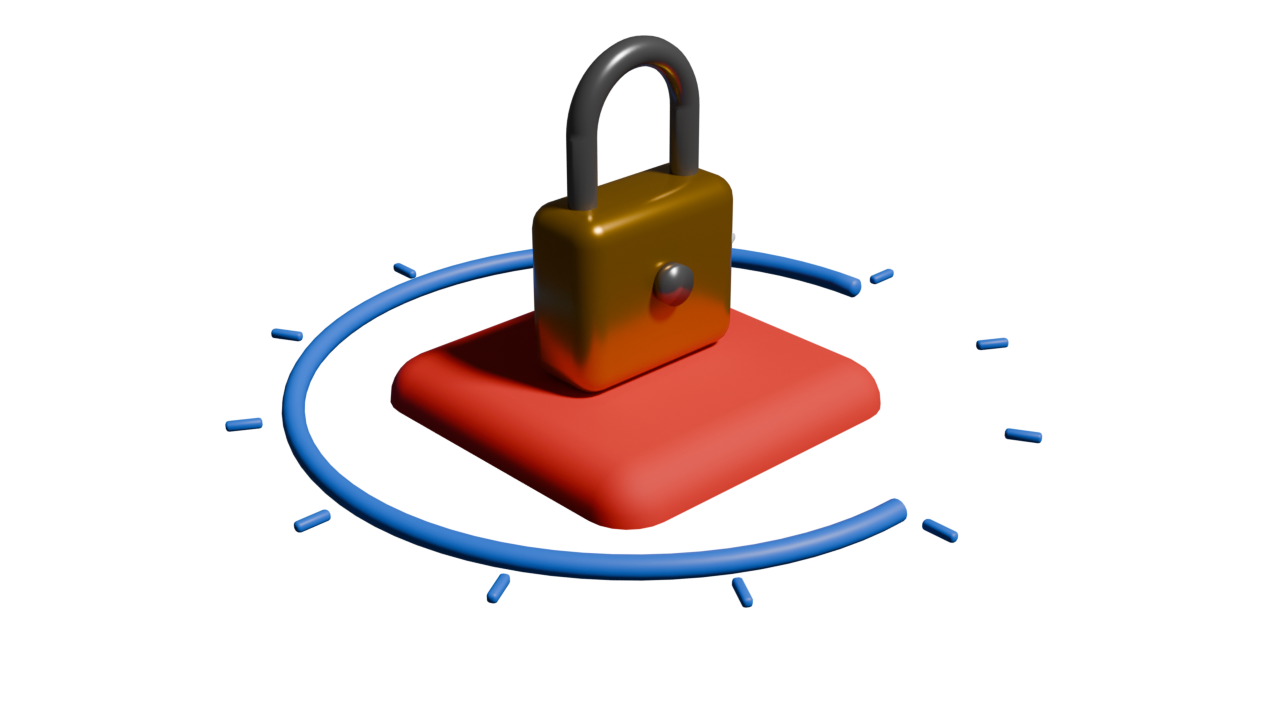
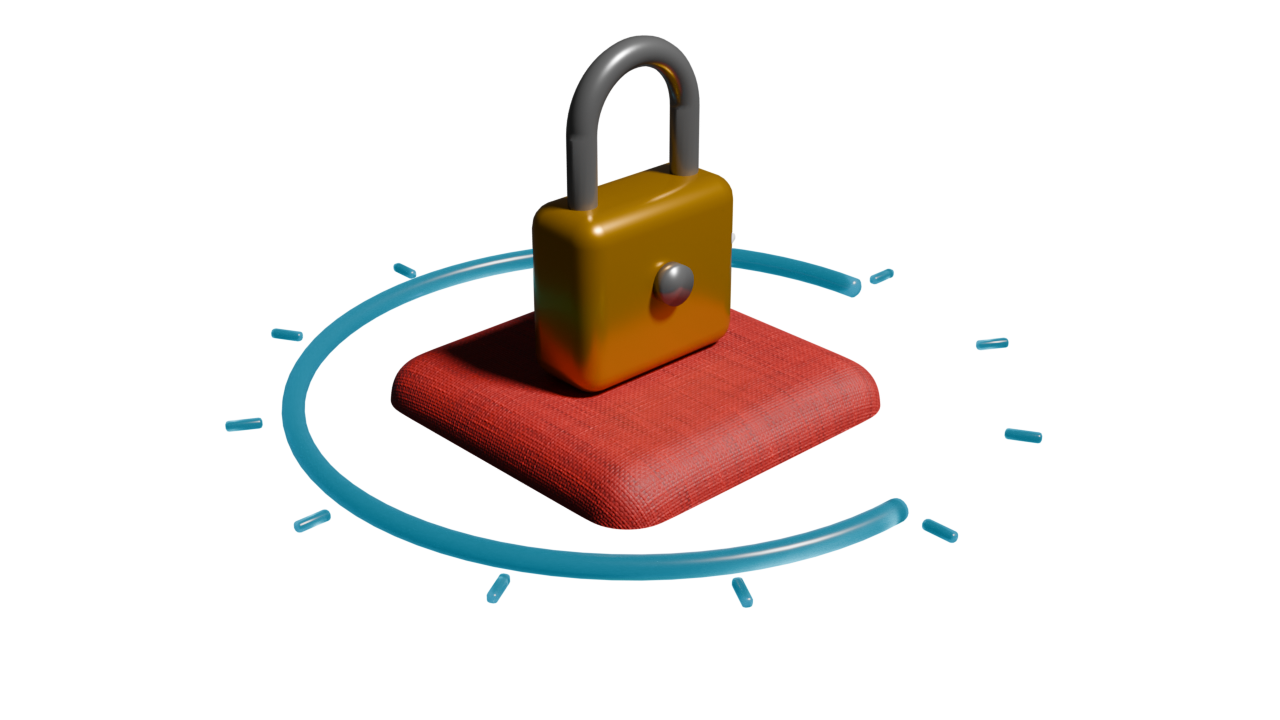
Reposition intent gate elements. Update README.md illustration. Circumvent Snapchat accessibility detection rendering Daltonizer disabled, so Snapchat also is Daltonized.

Changed region(s): [[0.1562, 0.0306, 0.75, 0.8556], [0.7812, 0.5806, 0.8125, 0.6111], [0.75, 0.4583, 0.7812, 0.4889]]

diff --git a/app/src/main/kotlin/com/defang/launcher/service/overlay/IntentGateOverlay.kt b/app/src/main/kotlin/com/defang/launcher/service/overlay/IntentGateOverlay.kt
@@ -59,7 +59,7 @@ class IntentGateOverlay(
         // Tidbit — first thing the user sees
         val tvTidbit = TextView(context).apply {
             text = tidbitSelector.next(contentTrack)
-            textSize = 20f
+            textSize = 15f
             setTextColor(Color.rgb(210, 210, 210))
             gravity = Gravity.CENTER
             setPadding(0, 0, 0, if (offlinePrompt != null) 48 else 80)
@@ -67,20 +67,7 @@ class IntentGateOverlay(
         }
         root.addView(tvTidbit)
 
-        // Offline prompt — the real-world alternative, before the unlock
-        if (offlinePrompt != null) {
-            val tvPrompt = TextView(context).apply {
-                text = context.getString(
-                    com.defang.launcher.R.string.gate_offline_suggestion, offlinePrompt
-                )
-                textSize = 15f
-                setTextColor(Color.rgb(160, 160, 160))
-                gravity = Gravity.CENTER
-                setPadding(0, 0, 0, 64)
-                setLineSpacing(0f, 1.3f)
-            }
-            root.addView(tvPrompt)
-        }
+
 
         // Slide hint — small and dim
         val tvHint = TextView(context).apply {
@@ -103,6 +90,21 @@ class IntentGateOverlay(
             ).also { it.bottomMargin = (24 * density).toInt() }
         }
         root.addView(slider)
+
+        // Offline prompt — the real-world alternative, before the unlock
+        if (offlinePrompt != null) {
+            val tvPrompt = TextView(context).apply {
+                text = context.getString(
+                    com.defang.launcher.R.string.gate_offline_suggestion, offlinePrompt
+                )
+                textSize = 20f
+                setTextColor(Color.rgb(160, 160, 160))
+                gravity = Gravity.CENTER
+                setPadding(0, 0, 0, 64)
+                setLineSpacing(0f, 1.3f)
+            }
+            root.addView(tvPrompt)
+        }
 
         val btnBack = Button(context).apply {
             text = context.getString(com.defang.launcher.R.string.gate_go_back)

diff --git a/app/src/main/kotlin/com/defang/launcher/ui/settings/usage/UsageReportScreen.kt b/app/src/main/kotlin/com/defang/launcher/ui/settings/usage/UsageReportScreen.kt
@@ -28,6 +28,8 @@ import androidx.compose.runtime.getValue
 import androidx.compose.ui.Alignment
 import androidx.compose.ui.Modifier
 import androidx.compose.ui.res.stringResource
+import androidx.compose.ui.tooling.preview.Preview
+import androidx.compose.ui.tooling.preview.PreviewParameter
 import androidx.compose.ui.unit.dp
 import androidx.hilt.navigation.compose.hiltViewModel
 import androidx.lifecycle.compose.collectAsStateWithLifecycle

diff --git a/app/src/main/kotlin/com/defang/launcher/ui/settings/apptier/AppTierScreen.kt b/app/src/main/kotlin/com/defang/launcher/ui/settings/apptier/AppTierScreen.kt
@@ -85,7 +85,6 @@ fun AppTierScreen(
         }
     }
 }
-
 @Composable
 private fun AppTierRow(
     item: AppTierItem,